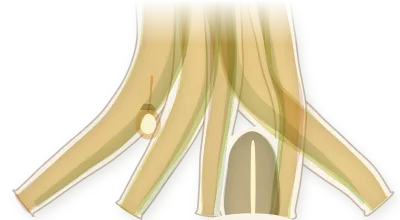
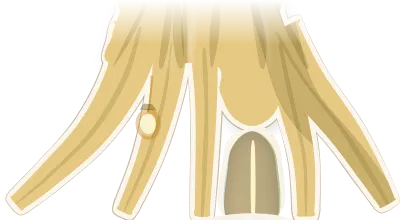
工房ホームページ：開く前の読み込みを軽く・世界樹の幹を1本に・妖精の光に姿と光の粉・遊び場は「ミニゲーム」
- 予算は「開く前に読む量」で守る：図書館の2枚と表紙だけを先に読み（185KB）、森・飛び出す紙・住人・木の部品は最初の絵が出てから読む。遅い4Gの最初の絵 1.52→1.36 秒
- 世界樹の幹：細い帯の束をやめ、1本の太い幹がすそで根へ広がり、上で枝と芯に分かれる（ねじれは樹皮の溝で）。根の絵の上の端を幹の続きにして、継ぎ目の切れをなくした
- 妖精の光：光の中に小さな体と、はばたく2枚の羽。飛びながら金の粉が舞い落ちる
- エルフを8割に（世界樹より目立たせない）
- 遊び場の札を「港町の部屋」から「ミニゲーム」へ（港町に限らない）

diff --git a/app.js b/app.js
@@ -1,7 +1,7 @@
 (() => {
   'use strict';
   // 台帳（works.json）は、組み立ての時にここへ流しこむ（ページの外から文字は入らない）
-  const DATA = {"places":[{"id":"roots","name":"根元の工房","sub":"地図と道具","line":"会社の道具を、AIとつくる作業場。連載の中身を、触れる地図と道具にしました。"},{"id":"branch","name":"枝","sub":"カードの花","line":"節目に咲く、仕掛けつきのカード。LINE で送れます。"},{"id":"play","name":"遊び場","sub":"港町の部屋","line":"おかしな港町の部屋で、触って遊べます。ここから、部屋へ直に入れます。"},{"id":"spring","name":"泉","sub":"音楽","line":"AI音楽工房の MV。工房が企画し、BGM&V Studio が制作しています。"},{"id":"cave","name":"洞窟","sub":"連載と動画","line":"経営者のための連載「AI内製化の羅針盤」と、記事の動画。"},{"id":"cloud","name":"雲の上","sub":"旅","line":"本物の旅のしおりと、想像の世界旅行。"}],"notice":["当工房では職人が気ままに作っているため、突然変更が入ったり、途中でとまっているコンテンツがあったりします。","これは作成途中をリアルタイムにお見せする趣旨のものですので、作りかけの雰囲気も含めて楽しんでもらい、成長を見守っていただけたら幸いです。"],"voices":{"調整中":["ちょっと調整中。見てもいいけど変なところがあっても気にしないでね。","いま、ねじを締め直しているところ。動くけど、ときどきガタッとするかも。","仕上げの真っ最中！ 気づいたことがあったら、そっと教えてね。","ただいま磨き中。ピカピカになるまで、もう少し。"],"作りかけ":["ただいま作りかけ。リアルタイム進行中。","まだ骨組みだけど、のぞいていってね。","作っている途中をそのまま見せちゃうよ。明日には変わってるかも！","工房の机の上で、いま組み立て中。"],"準備中":["今作成中だよ！もうすぐ公開するね！","まだ種の中。芽が出たら、ここでお知らせするね。","いま、絵の具を溶いているところ。もう少しだけ待っててね。","職人がこっそり仕込み中。お楽しみに！"]},"works":[{"place":"roots","group":"3Dの地図","kind":"触れる","name":"4つの島の航海図（利益マップ）","note":"「何から入れると儲かる？」を、3Dの海図に。","url":"https://tatatasan323-cell.github.io/note-app/"},{"place":"roots","group":"3Dの地図","kind":"触れる","name":"天空の城への道（内製化ロードマップ）","note":"6つの関門を越えて、天空の城へ。","url":"https://tatatasan323-cell.github.io/note-app/road.html"},{"place":"roots","group":"3Dの地図","kind":"触れる","name":"AIの全体地図（6層＋4横断面）","note":"会社のAIの仕組みを、6つの層で見る。","url":"https://tatatasan323-cell.github.io/note-app/arch.html"},{"place":"roots","group":"3Dの地図","kind":"触れる","name":"そもそもAIって？ 5部作の地図","note":"「そもそもAIって？」5本の地図。","url":"https://tatatasan323-cell.github.io/note-app/aimap/"},{"place":"roots","group":"道具","kind":"触れる","name":"城 ─ 経営ステータス","note":"社長の一枚画面。架空の会社で動くデモ。","url":"https://tatatasan323-cell.github.io/castle/"},{"place":"roots","group":"道具","kind":"触れる","name":"転記ゼロ（tenki-zero 体験版）","note":"転記の手作業をなくす仕組みを、ブラウザで試す。","url":"https://tatatasan323-cell.github.io/tenki-zero/"},{"place":"roots","group":"手引き","kind":"読む","name":"AIエージェント利用ガイド","note":"部下としてハーネスする。社内で配れる手引き。","url":"https://tatatasan323-cell.github.io/note-app/ai-agent-guide.html"},{"place":"roots","group":"手引き","kind":"読む","name":"乗っ取り対策の手引き","note":"パスキーでも守れない、2つの穴。","url":"https://tatatasan323-cell.github.io/note-app/security-guide.html"},{"place":"roots","group":"手引き","kind":"読む","name":"会社のセキュリティ段階表","note":"自社の段階を確かめる表。","url":"https://tatatasan323-cell.github.io/note-app/security-levels.html"},{"place":"roots","group":"時報","kind":"読む","name":"ＡＩ内製化時報 第001号","note":"システムプロンプト、八割削除。","url":"https://tatatasan323-cell.github.io/note-app/jihou-001.html"},{"place":"roots","group":"時報","kind":"読む","name":"ＡＩ内製化時報 第002号","note":"穴を空けたのはAI、突いたのもAI。","url":"https://tatatasan323-cell.github.io/note-app/jihou-002.html"},{"place":"roots","group":"工房のこれから","kind":"歩く","status":"準備中","name":"世界樹の村（3Dで歩ける町）","note":"この地図の本から入って、村を歩けるようにします。","url":""},{"place":"branch","group":"カード","kind":"触れる","name":"ハロウィン招待状 ─ おばけの庭へようこそ","note":"おばけに触れると、音と豆知識。","url":"https://tatatasan323-cell.github.io/gimmick-cards/halloween/"},{"place":"branch","group":"カード","kind":"触れる","name":"とろけて聖夜 ─ おかしな港町","note":"宝石をはじき、ステンドグラスを割り、氷を削る冬の港町（動く3D）。","url":"https://tatatasan323-cell.github.io/gimmick-cards/christmas-town/"},{"place":"branch","group":"カード","kind":"触れる","name":"とろけて聖夜 ─ X'mas グリーティングカード","note":"港町とつながるカード。","url":"https://tatatasan323-cell.github.io/gimmick-cards/christmas-town/card.html"},{"place":"branch","group":"カード","kind":"触れる","status":"調整中","name":"正月のカード ─ 作品の一覧","note":"正月のカード 76 作。絵を押すと、さわって動く本物が開きます。","url":"https://ai-naiseika.github.io/cards/shogatsu/"},{"place":"branch","group":"カード","kind":"触れる","status":"作りかけ","name":"送る予定 ─ 節目のカード","note":"カードを、あとで送るための予定。時間になったら、スマホのカレンダーが知らせます。","url":"https://ai-naiseika.github.io/cards/yotei/"},{"place":"play","group":"おかしな港町の部屋","kind":"触れる","name":"ステンドグラスの礼拝堂","note":"窓をタップすると、かけらが落ちて砕け、光の粒になって元の窓へ。","date":"2026-10-16","url":"https://tatatasan323-cell.github.io/gimmick-cards/christmas-town/glass.html?from=kobo"},{"place":"play","group":"おかしな港町の部屋","kind":"触れる","name":"宝石の美術館","note":"一人称で歩く大ホール。宝石はそっと触ると歌い、強くたたくと…？","date":"2026-10-16","url":"https://tatatasan323-cell.github.io/gimmick-cards/christmas-town/museum.html?from=kobo"},{"place":"play","group":"おかしな港町の部屋","kind":"触れる","name":"氷の彫像の広場","note":"ノミでコンコン、機械でガリガリ。削って宝石を取り出す。","date":"2026-10-16","url":"https://tatatasan323-cell.github.io/gimmick-cards/christmas-town/ice.html?from=kobo"},{"place":"play","group":"おかしな港町の部屋","kind":"触れる","name":"ぷるぷる水そう","note":"水の中を泳ぎながら、グミたちをつまんで伸ばす。","date":"2026-10-16","url":"https://tatatasan323-cell.github.io/gimmick-cards/christmas-town/swim.html?from=kobo"},{"place":"play","group":"おかしな港町の部屋","kind":"触れる","name":"グミのつみき","note":"空に浮かぶテーブルで、グミの積み木。はじいて、持って、高く積む。","date":"2026-10-16","url":"https://tatatasan323-cell.github.io/gimmick-cards/christmas-town/blocks.html?from=kobo"},{"place":"spring","group":"MV","kind":"見る","name":"雨上がりの小径 ― 水たまりを、跳んでいたころ","note":"最初の MV。","date":"2026-10-06","url":"https://youtu.be/yi53ACtNxp8"},{"place":"spring","group":"MV","kind":"見る","name":"パンプキン・ポン！ ― ハロウィンの夜のドキドキ","note":"切り絵の魔女とモンスターの踊り。","date":"2026-10-14","url":"https://youtu.be/uFx4Vcr8o8A"},{"place":"spring","group":"MV","kind":"見る","name":"Friends Around the Table ─ テーブルに集まれ！","note":"クリスマス3部作の1本目。","date":"2026-10-19","url":"https://youtu.be/pEvqS5da3-s"},{"place":"spring","group":"MV","kind":"見る","name":"Christmas Feels Like Being ─ きみといる、それがクリスマス","note":"クリスマス3部作の2本目。","date":"2026-10-20","url":"https://youtu.be/Z6vJkx9_u-s"},{"place":"spring","group":"MV","kind":"見る","name":"Singing Glory ─ グローリー・グローリー！","note":"クリスマス3部作の3本目。","date":"2026-10-23","url":"https://youtu.be/oR3KyE3Zmxo"},{"place":"cave","group":"記事の動画","kind":"見る","name":"AI導入、なぜ罠にはまる？ ─ 天空の城へ続く「6つの関門」","note":"","date":"2026-10-13","url":"https://youtu.be/-Dja11xVGzQ"},{"place":"cave","group":"記事の動画","kind":"見る","name":"AI導入、まず何から？ ─ 儲けにつながる「4つの島」の航海図","note":"","date":"2026-10-10","url":"https://youtu.be/xKATNxc-q50"},{"place":"cave","group":"記事の動画","kind":"見る","name":"動画生成AIなしで描いた26の画風 ── コードで描くアニメーション見本帳","note":"","date":"2026-10-07","url":"https://youtu.be/dQ2MLnKi8rE"},{"place":"cave","group":"記事の動画","kind":"見る","name":"DeepSeekなど中国AIは業務に使っていい？ ー 決め手は性能でも価格でもなく「調達」","note":"","date":"2026-10-06","url":"https://youtu.be/P4EKVp7NFms"},{"place":"cave","group":"記事の動画","kind":"見る","name":"「AIで、仕事は消えるのか」──ある会社の \"未来の一日\"【朗読ストーリー】","note":"","date":"2026-08-15","url":"https://youtu.be/s-KqdbO6xWk"},{"place":"cave","group":"記事の動画","kind":"見る","name":"【HTMLとは？ Pythonとは？】 AI内製化の全体像が4分で分かる見取り図","note":"","date":"2026-07-27","url":"https://youtu.be/c1A3KVXweG0"},{"place":"cave","group":"記事の動画","kind":"見る","name":"【スクール不要】月3,000円で始めるAI内製化／総集編・全8話","note":"","date":"2026-07-03","url":"https://youtu.be/3dDNd_MuB0Y"},{"place":"cave","group":"物語","kind":"読む","name":"未来の一日 ─ どこにでもある会社の朝","note":"朗読ストーリーの本。","url":"https://tatatasan323-cell.github.io/note-app/mirai/"},{"place":"cave","group":"連載","kind":"読む","date":"2026-10-19","name":"AI利用、どこから始めるか。答えは「1人」と「1つの痛み」","url":"https://note.com/ai_naiseika/n/n27912da5b3da"},{"place":"cave","group":"連載","kind":"読む","date":"2026-10-13","name":"「スクールもコンサルも要らない」の、本当の意味","url":"https://note.com/ai_naiseika/n/n51217db465e9"},{"place":"cave","group":"連載","kind":"読む","date":"2026-10-12","name":"前橋の観光案内を、AIと2日で作る ー 「確かめた度合い」を隠さない作り方","url":"https://note.com/ai_naiseika/n/n5c6551d1beac"},{"place":"cave","group":"連載","kind":"読む","date":"2026-10-12","name":"工房からの警告 再び ー AIに任せていい所、いけない所","url":"https://note.com/ai_naiseika/n/neb45bbba31cf"},{"place":"cave","group":"連載","kind":"読む","date":"2026-10-10","name":"AIエージェントがあるのに、仕組みを作る理由 ー 内製化すべき2つの場所","url":"https://note.com/ai_naiseika/n/n667d22b71479"},{"place":"cave","group":"連載","kind":"読む","date":"2026-10-07","name":"会話だけで動画を作る ー【脱・動画生成】AIアニメーションの可能性","url":"https://note.com/ai_naiseika/n/na5e82389ac72"},{"place":"cave","group":"連載","kind":"読む","date":"2026-10-06","name":"工房からの警告 ー 「AIが勝手に動き回る？」報道の真偽と、守るべき場所","url":"https://note.com/ai_naiseika/n/n4c308409efd9"},{"place":"cave","group":"連載","kind":"読む","date":"2026-10-03","name":"ある日突然の「アカバン」 ー 生成AIサブスクの落とし穴","url":"https://note.com/ai_naiseika/n/n8923fd964394"},{"place":"cave","group":"連載","kind":"読む","date":"2026-09-29","name":"AI巨額投資の行く末 ー いつか来る「ババ抜き」ゲームの終わり","url":"https://note.com/ai_naiseika/n/nc9e8207bcf78"},{"place":"cave","group":"連載","kind":"読む","date":"2026-09-28","name":"パスキーも乗っ取られる時代に。必ずすべきセキュリティ対策とは。","url":"https://note.com/ai_naiseika/n/n5b747190fa6e"},{"place":"cave","group":"連載","kind":"読む","date":"2026-09-27","name":"AI暴走論と終末論のさなかで ー あなたがすべき一手とは","url":"https://note.com/ai_naiseika/n/nf04f65023439"},{"place":"cave","group":"連載","kind":"読む","date":"2026-09-21","name":"奇跡の37手から10年。中国AIの実力と、日本企業が引くべき一線。","url":"https://note.com/ai_naiseika/n/n31214e08120e"},{"place":"cave","group":"連載","kind":"読む","date":"2026-09-20","name":"AI依存症に陥らないためのガイド ー 「AIに聞く/指示する」2つの違い","url":"https://note.com/ai_naiseika/n/n4193a3063552"},{"place":"cave","group":"連載","kind":"読む","date":"2026-09-14","name":"あなたのAI、期待通り動きますか？ ー AIの力を引き出すための思考法","url":"https://note.com/ai_naiseika/n/n7e4462f1908f"},{"place":"cave","group":"連載","kind":"読む","date":"2026-09-08","name":"バックオフィスが消える日。社内ステータスがリアルに見える未来への羅針盤。","url":"https://note.com/ai_naiseika/n/n07f8688e64df"},{"place":"cave","group":"連載","kind":"読む","date":"2026-08-31","name":"AIが空けた穴を、別のAIが5日で見つけて突く ── 8月までのAI事故と、私の工房の点検結果","url":"https://note.com/ai_naiseika/n/ned77cf0c294e"},{"place":"cave","group":"連載","kind":"読む","date":"2026-08-26","name":"AIのこれから ─ 「情報の土台」を持つことの意味","url":"https://note.com/ai_naiseika/n/n54fd60e90f04"},{"place":"cave","group":"連載","kind":"読む","date":"2026-08-24","name":"AI最前線 ─ 代表5社の現在地と、内製化に使うべき道具","url":"https://note.com/ai_naiseika/n/n06bea781e796"},{"place":"cave","group":"連載","kind":"読む","date":"2026-08-17","name":"OpenAIという物語 ─ 「人類のためのAI」は、どこへ向かっているのか","url":"https://note.com/ai_naiseika/n/n12816bc47432"},{"place":"cave","group":"連載","kind":"読む","date":"2026-08-11","name":"70年というAIの歩み ─ その挑戦と、“ 奇跡の一手 ” と、一本の論文","url":"https://note.com/ai_naiseika/n/n3471aeed4c26"},{"place":"cave","group":"連載","kind":"読む","date":"2026-08-01","name":"AIとは本当は何なのか　優秀な相棒？　頼れる相談役？　得体のしれない何か？","url":"https://note.com/ai_naiseika/n/n33eadda7b1b0"},{"place":"cave","group":"連載","kind":"読む","date":"2026-07-31","name":"経営者が知るべき、最後まで残る仕事 ─ AIが連れて行く “異世界” の話","url":"https://note.com/ai_naiseika/n/ne340418a0949"},{"place":"cave","group":"連載","kind":"読む","date":"2026-07-28","name":"Anthropicが、自社のAI開発ツールの内部指示を8割以上削除。その真意は？","url":"https://note.com/ai_naiseika/n/nec9184d934b1"},{"place":"cave","group":"連載","kind":"読む","date":"2026-07-27","name":"HTMLとは？ Pythonとは？ ─ 目指す内製化を一目で理解する見取り図","url":"https://note.com/ai_naiseika/n/ne47dde16170f"},{"place":"cave","group":"連載","kind":"読む","date":"2026-07-23","name":"AIは本当に安全なのか？ 世間で騒がれているプロンプトインジェクションを回避する唯一の方法とは？","url":"https://note.com/ai_naiseika/n/nd3d82deb2f4f"},{"place":"cave","group":"連載","kind":"読む","date":"2026-07-20","name":"その事務仕事いつまでやるのですか？【２】　例えば転記作業が無くなる日","url":"https://note.com/ai_naiseika/n/n5f46bef5c41b"},{"place":"cave","group":"連載","kind":"読む","date":"2026-07-12","name":"その事務仕事いつまでやるのですか？【１】　例えば明細を放り込むだけのツール","url":"https://note.com/ai_naiseika/n/n56e563d80e2a"},{"place":"cave","group":"連載","kind":"読む","date":"2026-07-06","name":"AI導入、知らないと失敗する ─ 成功に近づくための「内製化ロードマップ」","url":"https://note.com/ai_naiseika/n/nbf98e9add127"},{"place":"cave","group":"連載","kind":"読む","date":"2026-07-04","name":"ぶっちゃけ、AIは何から入れると儲かる？ ─ 経営者のための “利益” の地図","url":"https://note.com/ai_naiseika/n/nb7e3a2ca7fca"},{"place":"cave","group":"連載","kind":"読む","date":"2026-06-29","name":"繰り返し定型作業をAIで ─ 一度の “仕組み” が大切","url":"https://note.com/ai_naiseika/n/n9462746fd8ba"},{"place":"cave","group":"連載","kind":"読む","date":"2026-06-22","name":"メールは良いのに、AIはダメ？ ─ 会社の情報を “どこまで外に出すか”","url":"https://note.com/ai_naiseika/n/n295bc71d253d"},{"place":"cave","group":"連載","kind":"読む","date":"2026-06-15","name":"プロトタイプは早い、本番はその先 ─ 内製化を「育てる」ということ","url":"https://note.com/ai_naiseika/n/n4f8ea3f4696d"},{"place":"cave","group":"連載","kind":"読む","date":"2026-06-12","name":"バイブコーディングが通用しなくなる日 ─ AIに渡す『要件定義』の話","url":"https://note.com/ai_naiseika/n/n5f043fb74a72"},{"place":"cave","group":"連載","kind":"読む","date":"2026-06-09","name":"AIは嘘をつかない。けれど、あなたに「忖度」する","url":"https://note.com/ai_naiseika/n/n34c94b0c2a20"},{"place":"cave","group":"連載","kind":"読む","date":"2026-06-04","name":"AIと迷走しないために、最初にやるべきこと","url":"https://note.com/ai_naiseika/n/nb72e3552d43d"},{"place":"cave","group":"連載","kind":"読む","date":"2026-05-31","name":"AIエージェントを、今日入れる ─ 使い方も、AIに聞けばいい","url":"https://note.com/ai_naiseika/n/n808d67e92440"},{"place":"cave","group":"連載","kind":"読む","date":"2026-05-26","name":"「こうしたい」と伝えるだけで、何かが作れる時代","url":"https://note.com/ai_naiseika/n/n912fbc83f1c6"},{"place":"cave","group":"連載","kind":"読む","date":"2026-05-25","name":"料理人だった私が、AI内製化でシステムを作れる理由","url":"https://note.com/ai_naiseika/n/nd6a51b98694c"},{"place":"cave","group":"連載","kind":"読む","date":"2026-05-18","name":"AIを学ぶのに「スクール」「コンサル」が要らない新時代","url":"https://note.com/ai_naiseika/n/ndfc95eb3f0fa"},{"place":"cloud","group":"旅のしおり","kind":"使う","name":"前橋まちあるき（12/20 まで）","note":"芸術祭と「詩のまち」を歩く案内。確かめた度合いを印で示す。","url":"https://tatatasan323-cell.github.io/note-app/tabi/maebashi/"},{"place":"cloud","group":"旅のしおり","kind":"使う","name":"松本まちあるき","note":"松本駅から美ヶ原温泉まで、ゆるく歩く参考メモ（11/7〜8 の例）。","url":"https://tatatasan323-cell.github.io/note-app/tabi/matsumoto-burari/"},{"place":"cloud","group":"世界旅行","kind":"見る","name":"想像の世界旅行","note":"雲に乗って、想像だけで世界を旅する部屋を作っています。","status":"準備中","url":""}],"links":[{"name":"note「AI内製化の羅針盤」","url":"https://note.com/ai_naiseika"},{"name":"YouTube「AI内製化工房 MITA」","url":"https://www.youtube.com/@ai_naiseika_mita"},{"name":"X @ai_naiseika","url":"https://x.com/ai_naiseika"},{"name":"音楽 BGM&V Studio（AI音楽工房の制作）","url":"https://www.youtube.com/@BackgroundMusicVideoStudio"}],"trees":{"sizes":[[1405,473],[1455,1113]],"cells":[[-172,254,378,259,641,362,21,494,0,1],[-24,267,339,249,284,629,145,497,0,1],[90,275,312,239,895,629,246,498,0,1],[187,287,314,226,0,887,354,494,0,1],[344,351,221,167,969,0,462,499,0,0],[449,358,206,157,0,316,549,497,0,0],[811,346,211,161,1192,0,910,491,0,0],[875,338,281,178,686,0,1017,494,0,0],[984,300,294,212,316,887,1130,496,0,1],[1084,253,324,262,315,362,1237,493,0,1],[1179,248,313,265,0,362,1333,495,0,1],[1292,258,298,259,1021,362,1438,503,0,1],[-169,274,398,360,0,0,30,620,1,1],[-11,352,322,288,1131,0,150,630,1,1],[136,380,268,244,625,629,270,610,1,1],[283,436,217,198,840,887,392,620,1,1],[344,326,351,314,0,0,520,630,1,0],[752,324,331,300,353,0,918,610,1,0],[933,428,226,206,612,887,1046,620,1,1],[1027,378,282,256,0,629,1168,620,1,1],[1121,338,338,302,791,0,1290,630,1,1],[1215,272,389,352,400,0,1410,610,1,1]]},"music":{"settings":{"volume":0.7,"overlap":4,"fade_in":4},"rules":[{"place":"roots","song":"03"},{"months":[12,1,2],"hours":[16,5],"song":"06"},{"hours":[5,11],"song":"01"},{"hours":[11,16],"songs":["04","05"]},{"hours":[16,5],"song":"02"}],"songs":[{"no":"01","title":"朝つゆの森","note":"朝の光が、葉の先の露をひとつずつ照らしていく森。チェレスタとオルゴールがきらきらと目をさまし、ハープとグロッケン、カリンバが続きます。フルートは、遠くで鳴く小鳥のように。","trivia":["チェレスタは、パリの楽器製作者オーギュスト・ミュステルが1886年に特許をとった楽器。","チャイコフスキーの『くるみ割り人形』の「金平糖の踊り」は、チェレスタを使った曲として有名。"],"file":"bgm/01.m4a","bpm":68.0,"ready":true},{"no":"02","title":"ほたるの灯る夜","note":"日が落ちて、森にほたるの小さな灯りがともる夜。チェレスタとオルゴール、ハープが静かに瞬き、言葉のないコーラスと鈴の音が、闇をやさしく包みます。","trivia":["オルゴールの歴史は1796年、ジュネーブの時計職人アントワーヌ・ファーブルの発明から始まったとされる。"],"file":"bgm/02.m4a","bpm":58.75,"ready":true},{"no":"03","title":"世界樹への祈り","note":"工房の根元で、世界樹に手を当てて祈るひととき。ケルトのハープが静かに語り、ティンホイッスルが風のように、チェロが大地のように深く響きます。","trivia":["アイルランドの国章はハープ。大統領や大臣の印章にも、アイルランドのユーロ硬貨にも描かれている。","国章のハープのお手本は、ダブリンのトリニティ・カレッジの博物館に残る14世紀のハープ。"],"file":"bgm/03.m4a","bpm":89.1,"ready":true},{"no":"04","title":"妖精たちのワルツ","note":"昼下がりの木もれ日の中、妖精たちが輪になって踊る3拍子。オルゴールとチェレスタがくるくる回り、ピチカートの弦が足どりを刻み、フルートが軽やかに舞います。","trivia":["ワルツは4分の3拍子の踊りの曲。1814〜15年のウィーン会議をきっかけに、ヨーロッパ中へ広まった。","『美しく青きドナウ』は「ワルツ王」ヨハン・シュトラウス2世の曲。1867年にウィーンで初演された。"],"file":"bgm/04.m4a","bpm":95.7,"ready":true},{"no":"05","title":"雨上がりのしずく","note":"雨がやんで、葉から落ちるしずくが光る森。ピアノとチェレスタが雫のように、カリンバがぽつぽつと、ウィンドチャイムが風にゆれて鳴ります。","trivia":["カリンバはアフリカの「親指ピアノ」の仲間。金属の鍵の親指ピアノは、約1300年前にザンベジ川のほとりで生まれたという。","ピアノの黒鍵だけを弾くと、五つの音でできた音階「ペンタトニック（五音音階）」になる。"],"file":"bgm/05.m4a","bpm":64.6,"ready":true},{"no":"06","title":"雪ふる森の冬ごもり","note":"雪が音を吸いこんで、しんと静かな冬の夜の森。チェレスタとオルゴール、ハープがやわらかく降り、グラスハーモニカの澄んだ響きが、雪明かりのように広がります。","trivia":["グラスハーモニカは、フランクリンが1761年に完成させた楽器。回るガラスの器のふちに、ぬれた指で触れて鳴らす。","モーツァルトも1791年、グラスハーモニカの入った「アダージョとロンド」（K.617）を書いた。"],"file":"bgm/06.m4a","bpm":68.0,"ready":true}]}};
+  const DATA = {"places":[{"id":"roots","name":"根元の工房","sub":"地図と道具","line":"会社の道具を、AIとつくる作業場。連載の中身を、触れる地図と道具にしました。"},{"id":"branch","name":"枝","sub":"カードの花","line":"節目に咲く、仕掛けつきのカード。LINE で送れます。"},{"id":"play","name":"遊び場","sub":"ミニゲーム","line":"触って遊べるミニゲームの部屋。ここから直に入れます。"},{"id":"spring","name":"泉","sub":"音楽","line":"AI音楽工房の MV。工房が企画し、BGM&V Studio が制作しています。"},{"id":"cave","name":"洞窟","sub":"連載と動画","line":"経営者のための連載「AI内製化の羅針盤」と、記事の動画。"},{"id":"cloud","name":"雲の上","sub":"旅","line":"本物の旅のしおりと、想像の世界旅行。"}],"notice":["当工房では職人が気ままに作っているため、突然変更が入ったり、途中でとまっているコンテンツがあったりします。","これは作成途中をリアルタイムにお見せする趣旨のものですので、作りかけの雰囲気も含めて楽しんでもらい、成長を見守っていただけたら幸いです。"],"voices":{"調整中":["ちょっと調整中。見てもいいけど変なところがあっても気にしないでね。","いま、ねじを締め直しているところ。動くけど、ときどきガタッとするかも。","仕上げの真っ最中！ 気づいたことがあったら、そっと教えてね。","ただいま磨き中。ピカピカになるまで、もう少し。"],"作りかけ":["ただいま作りかけ。リアルタイム進行中。","まだ骨組みだけど、のぞいていってね。","作っている途中をそのまま見せちゃうよ。明日には変わってるかも！","工房の机の上で、いま組み立て中。"],"準備中":["今作成中だよ！もうすぐ公開するね！","まだ種の中。芽が出たら、ここでお知らせするね。","いま、絵の具を溶いているところ。もう少しだけ待っててね。","職人がこっそり仕込み中。お楽しみに！"]},"works":[{"place":"roots","group":"3Dの地図","kind":"触れる","name":"4つの島の航海図（利益マップ）","note":"「何から入れると儲かる？」を、3Dの海図に。","url":"https://tatatasan323-cell.github.io/note-app/"},{"place":"roots","group":"3Dの地図","kind":"触れる","name":"天空の城への道（内製化ロードマップ）","note":"6つの関門を越えて、天空の城へ。","url":"https://tatatasan323-cell.github.io/note-app/road.html"},{"place":"roots","group":"3Dの地図","kind":"触れる","name":"AIの全体地図（6層＋4横断面）","note":"会社のAIの仕組みを、6つの層で見る。","url":"https://tatatasan323-cell.github.io/note-app/arch.html"},{"place":"roots","group":"3Dの地図","kind":"触れる","name":"そもそもAIって？ 5部作の地図","note":"「そもそもAIって？」5本の地図。","url":"https://tatatasan323-cell.github.io/note-app/aimap/"},{"place":"roots","group":"道具","kind":"触れる","name":"城 ─ 経営ステータス","note":"社長の一枚画面。架空の会社で動くデモ。","url":"https://tatatasan323-cell.github.io/castle/"},{"place":"roots","group":"道具","kind":"触れる","name":"転記ゼロ（tenki-zero 体験版）","note":"転記の手作業をなくす仕組みを、ブラウザで試す。","url":"https://tatatasan323-cell.github.io/tenki-zero/"},{"place":"roots","group":"手引き","kind":"読む","name":"AIエージェント利用ガイド","note":"部下としてハーネスする。社内で配れる手引き。","url":"https://tatatasan323-cell.github.io/note-app/ai-agent-guide.html"},{"place":"roots","group":"手引き","kind":"読む","name":"乗っ取り対策の手引き","note":"パスキーでも守れない、2つの穴。","url":"https://tatatasan323-cell.github.io/note-app/security-guide.html"},{"place":"roots","group":"手引き","kind":"読む","name":"会社のセキュリティ段階表","note":"自社の段階を確かめる表。","url":"https://tatatasan323-cell.github.io/note-app/security-levels.html"},{"place":"roots","group":"時報","kind":"読む","name":"ＡＩ内製化時報 第001号","note":"システムプロンプト、八割削除。","url":"https://tatatasan323-cell.github.io/note-app/jihou-001.html"},{"place":"roots","group":"時報","kind":"読む","name":"ＡＩ内製化時報 第002号","note":"穴を空けたのはAI、突いたのもAI。","url":"https://tatatasan323-cell.github.io/note-app/jihou-002.html"},{"place":"roots","group":"工房のこれから","kind":"歩く","status":"準備中","name":"世界樹の村（3Dで歩ける町）","note":"この地図の本から入って、村を歩けるようにします。","url":""},{"place":"branch","group":"カード","kind":"触れる","name":"ハロウィン招待状 ─ おばけの庭へようこそ","note":"おばけに触れると、音と豆知識。","url":"https://tatatasan323-cell.github.io/gimmick-cards/halloween/"},{"place":"branch","group":"カード","kind":"触れる","name":"とろけて聖夜 ─ おかしな港町","note":"宝石をはじき、ステンドグラスを割り、氷を削る冬の港町（動く3D）。","url":"https://tatatasan323-cell.github.io/gimmick-cards/christmas-town/"},{"place":"branch","group":"カード","kind":"触れる","name":"とろけて聖夜 ─ X'mas グリーティングカード","note":"港町とつながるカード。","url":"https://tatatasan323-cell.github.io/gimmick-cards/christmas-town/card.html"},{"place":"branch","group":"カード","kind":"触れる","status":"調整中","name":"正月のカード ─ 作品の一覧","note":"正月のカード 76 作。絵を押すと、さわって動く本物が開きます。","url":"https://ai-naiseika.github.io/cards/shogatsu/"},{"place":"branch","group":"カード","kind":"触れる","status":"作りかけ","name":"送る予定 ─ 節目のカード","note":"カードを、あとで送るための予定。時間になったら、スマホのカレンダーが知らせます。","url":"https://ai-naiseika.github.io/cards/yotei/"},{"place":"play","group":"おかしな港町の部屋","kind":"触れる","name":"ステンドグラスの礼拝堂","note":"窓をタップすると、かけらが落ちて砕け、光の粒になって元の窓へ。","date":"2026-10-16","url":"https://tatatasan323-cell.github.io/gimmick-cards/christmas-town/glass.html?from=kobo"},{"place":"play","group":"おかしな港町の部屋","kind":"触れる","name":"宝石の美術館","note":"一人称で歩く大ホール。宝石はそっと触ると歌い、強くたたくと…？","date":"2026-10-16","url":"https://tatatasan323-cell.github.io/gimmick-cards/christmas-town/museum.html?from=kobo"},{"place":"play","group":"おかしな港町の部屋","kind":"触れる","name":"氷の彫像の広場","note":"ノミでコンコン、機械でガリガリ。削って宝石を取り出す。","date":"2026-10-16","url":"https://tatatasan323-cell.github.io/gimmick-cards/christmas-town/ice.html?from=kobo"},{"place":"play","group":"おかしな港町の部屋","kind":"触れる","name":"ぷるぷる水そう","note":"水の中を泳ぎながら、グミたちをつまんで伸ばす。","date":"2026-10-16","url":"https://tatatasan323-cell.github.io/gimmick-cards/christmas-town/swim.html?from=kobo"},{"place":"play","group":"おかしな港町の部屋","kind":"触れる","name":"グミのつみき","note":"空に浮かぶテーブルで、グミの積み木。はじいて、持って、高く積む。","date":"2026-10-16","url":"https://tatatasan323-cell.github.io/gimmick-cards/christmas-town/blocks.html?from=kobo"},{"place":"spring","group":"MV","kind":"見る","name":"雨上がりの小径 ― 水たまりを、跳んでいたころ","note":"最初の MV。","date":"2026-10-06","url":"https://youtu.be/yi53ACtNxp8"},{"place":"spring","group":"MV","kind":"見る","name":"パンプキン・ポン！ ― ハロウィンの夜のドキドキ","note":"切り絵の魔女とモンスターの踊り。","date":"2026-10-14","url":"https://youtu.be/uFx4Vcr8o8A"},{"place":"spring","group":"MV","kind":"見る","name":"Friends Around the Table ─ テーブルに集まれ！","note":"クリスマス3部作の1本目。","date":"2026-10-19","url":"https://youtu.be/pEvqS5da3-s"},{"place":"spring","group":"MV","kind":"見る","name":"Christmas Feels Like Being ─ きみといる、それがクリスマス","note":"クリスマス3部作の2本目。","date":"2026-10-20","url":"https://youtu.be/Z6vJkx9_u-s"},{"place":"spring","group":"MV","kind":"見る","name":"Singing Glory ─ グローリー・グローリー！","note":"クリスマス3部作の3本目。","date":"2026-10-23","url":"https://youtu.be/oR3KyE3Zmxo"},{"place":"cave","group":"記事の動画","kind":"見る","name":"AI導入、なぜ罠にはまる？ ─ 天空の城へ続く「6つの関門」","note":"","date":"2026-10-13","url":"https://youtu.be/-Dja11xVGzQ"},{"place":"cave","group":"記事の動画","kind":"見る","name":"AI導入、まず何から？ ─ 儲けにつながる「4つの島」の航海図","note":"","date":"2026-10-10","url":"https://youtu.be/xKATNxc-q50"},{"place":"cave","group":"記事の動画","kind":"見る","name":"動画生成AIなしで描いた26の画風 ── コードで描くアニメーション見本帳","note":"","date":"2026-10-07","url":"https://youtu.be/dQ2MLnKi8rE"},{"place":"cave","group":"記事の動画","kind":"見る","name":"DeepSeekなど中国AIは業務に使っていい？ ー 決め手は性能でも価格でもなく「調達」","note":"","date":"2026-10-06","url":"https://youtu.be/P4EKVp7NFms"},{"place":"cave","group":"記事の動画","kind":"見る","name":"「AIで、仕事は消えるのか」──ある会社の \"未来の一日\"【朗読ストーリー】","note":"","date":"2026-08-15","url":"https://youtu.be/s-KqdbO6xWk"},{"place":"cave","group":"記事の動画","kind":"見る","name":"【HTMLとは？ Pythonとは？】 AI内製化の全体像が4分で分かる見取り図","note":"","date":"2026-07-27","url":"https://youtu.be/c1A3KVXweG0"},{"place":"cave","group":"記事の動画","kind":"見る","name":"【スクール不要】月3,000円で始めるAI内製化／総集編・全8話","note":"","date":"2026-07-03","url":"https://youtu.be/3dDNd_MuB0Y"},{"place":"cave","group":"物語","kind":"読む","name":"未来の一日 ─ どこにでもある会社の朝","note":"朗読ストーリーの本。","url":"https://tatatasan323-cell.github.io/note-app/mirai/"},{"place":"cave","group":"連載","kind":"読む","date":"2026-10-19","name":"AI利用、どこから始めるか。答えは「1人」と「1つの痛み」","url":"https://note.com/ai_naiseika/n/n27912da5b3da"},{"place":"cave","group":"連載","kind":"読む","date":"2026-10-13","name":"「スクールもコンサルも要らない」の、本当の意味","url":"https://note.com/ai_naiseika/n/n51217db465e9"},{"place":"cave","group":"連載","kind":"読む","date":"2026-10-12","name":"前橋の観光案内を、AIと2日で作る ー 「確かめた度合い」を隠さない作り方","url":"https://note.com/ai_naiseika/n/n5c6551d1beac"},{"place":"cave","group":"連載","kind":"読む","date":"2026-10-12","name":"工房からの警告 再び ー AIに任せていい所、いけない所","url":"https://note.com/ai_naiseika/n/neb45bbba31cf"},{"place":"cave","group":"連載","kind":"読む","date":"2026-10-10","name":"AIエージェントがあるのに、仕組みを作る理由 ー 内製化すべき2つの場所","url":"https://note.com/ai_naiseika/n/n667d22b71479"},{"place":"cave","group":"連載","kind":"読む","date":"2026-10-07","name":"会話だけで動画を作る ー【脱・動画生成】AIアニメーションの可能性","url":"https://note.com/ai_naiseika/n/na5e82389ac72"},{"place":"cave","group":"連載","kind":"読む","date":"2026-10-06","name":"工房からの警告 ー 「AIが勝手に動き回る？」報道の真偽と、守るべき場所","url":"https://note.com/ai_naiseika/n/n4c308409efd9"},{"place":"cave","group":"連載","kind":"読む","date":"2026-10-03","name":"ある日突然の「アカバン」 ー 生成AIサブスクの落とし穴","url":"https://note.com/ai_naiseika/n/n8923fd964394"},{"place":"cave","group":"連載","kind":"読む","date":"2026-09-29","name":"AI巨額投資の行く末 ー いつか来る「ババ抜き」ゲームの終わり","url":"https://note.com/ai_naiseika/n/nc9e8207bcf78"},{"place":"cave","group":"連載","kind":"読む","date":"2026-09-28","name":"パスキーも乗っ取られる時代に。必ずすべきセキュリティ対策とは。","url":"https://note.com/ai_naiseika/n/n5b747190fa6e"},{"place":"cave","group":"連載","kind":"読む","date":"2026-09-27","name":"AI暴走論と終末論のさなかで ー あなたがすべき一手とは","url":"https://note.com/ai_naiseika/n/nf04f65023439"},{"place":"cave","group":"連載","kind":"読む","date":"2026-09-21","name":"奇跡の37手から10年。中国AIの実力と、日本企業が引くべき一線。","url":"https://note.com/ai_naiseika/n/n31214e08120e"},{"place":"cave","group":"連載","kind":"読む","date":"2026-09-20","name":"AI依存症に陥らないためのガイド ー 「AIに聞く/指示する」2つの違い","url":"https://note.com/ai_naiseika/n/n4193a3063552"},{"place":"cave","group":"連載","kind":"読む","date":"2026-09-14","name":"あなたのAI、期待通り動きますか？ ー AIの力を引き出すための思考法","url":"https://note.com/ai_naiseika/n/n7e4462f1908f"},{"place":"cave","group":"連載","kind":"読む","date":"2026-09-08","name":"バックオフィスが消える日。社内ステータスがリアルに見える未来への羅針盤。","url":"https://note.com/ai_naiseika/n/n07f8688e64df"},{"place":"cave","group":"連載","kind":"読む","date":"2026-08-31","name":"AIが空けた穴を、別のAIが5日で見つけて突く ── 8月までのAI事故と、私の工房の点検結果","url":"https://note.com/ai_naiseika/n/ned77cf0c294e"},{"place":"cave","group":"連載","kind":"読む","date":"2026-08-26","name":"AIのこれから ─ 「情報の土台」を持つことの意味","url":"https://note.com/ai_naiseika/n/n54fd60e90f04"},{"place":"cave","group":"連載","kind":"読む","date":"2026-08-24","name":"AI最前線 ─ 代表5社の現在地と、内製化に使うべき道具","url":"https://note.com/ai_naiseika/n/n06bea781e796"},{"place":"cave","group":"連載","kind":"読む","date":"2026-08-17","name":"OpenAIという物語 ─ 「人類のためのAI」は、どこへ向かっているのか","url":"https://note.com/ai_naiseika/n/n12816bc47432"},{"place":"cave","group":"連載","kind":"読む","date":"2026-08-11","name":"70年というAIの歩み ─ その挑戦と、“ 奇跡の一手 ” と、一本の論文","url":"https://note.com/ai_naiseika/n/n3471aeed4c26"},{"place":"cave","group":"連載","kind":"読む","date":"2026-08-01","name":"AIとは本当は何なのか　優秀な相棒？　頼れる相談役？　得体のしれない何か？","url":"https://note.com/ai_naiseika/n/n33eadda7b1b0"},{"place":"cave","group":"連載","kind":"読む","date":"2026-07-31","name":"経営者が知るべき、最後まで残る仕事 ─ AIが連れて行く “異世界” の話","url":"https://note.com/ai_naiseika/n/ne340418a0949"},{"place":"cave","group":"連載","kind":"読む","date":"2026-07-28","name":"Anthropicが、自社のAI開発ツールの内部指示を8割以上削除。その真意は？","url":"https://note.com/ai_naiseika/n/nec9184d934b1"},{"place":"cave","group":"連載","kind":"読む","date":"2026-07-27","name":"HTMLとは？ Pythonとは？ ─ 目指す内製化を一目で理解する見取り図","url":"https://note.com/ai_naiseika/n/ne47dde16170f"},{"place":"cave","group":"連載","kind":"読む","date":"2026-07-23","name":"AIは本当に安全なのか？ 世間で騒がれているプロンプトインジェクションを回避する唯一の方法とは？","url":"https://note.com/ai_naiseika/n/nd3d82deb2f4f"},{"place":"cave","group":"連載","kind":"読む","date":"2026-07-20","name":"その事務仕事いつまでやるのですか？【２】　例えば転記作業が無くなる日","url":"https://note.com/ai_naiseika/n/n5f46bef5c41b"},{"place":"cave","group":"連載","kind":"読む","date":"2026-07-12","name":"その事務仕事いつまでやるのですか？【１】　例えば明細を放り込むだけのツール","url":"https://note.com/ai_naiseika/n/n56e563d80e2a"},{"place":"cave","group":"連載","kind":"読む","date":"2026-07-06","name":"AI導入、知らないと失敗する ─ 成功に近づくための「内製化ロードマップ」","url":"https://note.com/ai_naiseika/n/nbf98e9add127"},{"place":"cave","group":"連載","kind":"読む","date":"2026-07-04","name":"ぶっちゃけ、AIは何から入れると儲かる？ ─ 経営者のための “利益” の地図","url":"https://note.com/ai_naiseika/n/nb7e3a2ca7fca"},{"place":"cave","group":"連載","kind":"読む","date":"2026-06-29","name":"繰り返し定型作業をAIで ─ 一度の “仕組み” が大切","url":"https://note.com/ai_naiseika/n/n9462746fd8ba"},{"place":"cave","group":"連載","kind":"読む","date":"2026-06-22","name":"メールは良いのに、AIはダメ？ ─ 会社の情報を “どこまで外に出すか”","url":"https://note.com/ai_naiseika/n/n295bc71d253d"},{"place":"cave","group":"連載","kind":"読む","date":"2026-06-15","name":"プロトタイプは早い、本番はその先 ─ 内製化を「育てる」ということ","url":"https://note.com/ai_naiseika/n/n4f8ea3f4696d"},{"place":"cave","group":"連載","kind":"読む","date":"2026-06-12","name":"バイブコーディングが通用しなくなる日 ─ AIに渡す『要件定義』の話","url":"https://note.com/ai_naiseika/n/n5f043fb74a72"},{"place":"cave","group":"連載","kind":"読む","date":"2026-06-09","name":"AIは嘘をつかない。けれど、あなたに「忖度」する","url":"https://note.com/ai_naiseika/n/n34c94b0c2a20"},{"place":"cave","group":"連載","kind":"読む","date":"2026-06-04","name":"AIと迷走しないために、最初にやるべきこと","url":"https://note.com/ai_naiseika/n/nb72e3552d43d"},{"place":"cave","group":"連載","kind":"読む","date":"2026-05-31","name":"AIエージェントを、今日入れる ─ 使い方も、AIに聞けばいい","url":"https://note.com/ai_naiseika/n/n808d67e92440"},{"place":"cave","group":"連載","kind":"読む","date":"2026-05-26","name":"「こうしたい」と伝えるだけで、何かが作れる時代","url":"https://note.com/ai_naiseika/n/n912fbc83f1c6"},{"place":"cave","group":"連載","kind":"読む","date":"2026-05-25","name":"料理人だった私が、AI内製化でシステムを作れる理由","url":"https://note.com/ai_naiseika/n/nd6a51b98694c"},{"place":"cave","group":"連載","kind":"読む","date":"2026-05-18","name":"AIを学ぶのに「スクール」「コンサル」が要らない新時代","url":"https://note.com/ai_naiseika/n/ndfc95eb3f0fa"},{"place":"cloud","group":"旅のしおり","kind":"使う","name":"前橋まちあるき（12/20 まで）","note":"芸術祭と「詩のまち」を歩く案内。確かめた度合いを印で示す。","url":"https://tatatasan323-cell.github.io/note-app/tabi/maebashi/"},{"place":"cloud","group":"旅のしおり","kind":"使う","name":"松本まちあるき","note":"松本駅から美ヶ原温泉まで、ゆるく歩く参考メモ（11/7〜8 の例）。","url":"https://tatatasan323-cell.github.io/note-app/tabi/matsumoto-burari/"},{"place":"cloud","group":"世界旅行","kind":"見る","name":"想像の世界旅行","note":"雲に乗って、想像だけで世界を旅する部屋を作っています。","status":"準備中","url":""}],"links":[{"name":"note「AI内製化の羅針盤」","url":"https://note.com/ai_naiseika"},{"name":"YouTube「AI内製化工房 MITA」","url":"https://www.youtube.com/@ai_naiseika_mita"},{"name":"X @ai_naiseika","url":"https://x.com/ai_naiseika"},{"name":"音楽 BGM&V Studio（AI音楽工房の制作）","url":"https://www.youtube.com/@BackgroundMusicVideoStudio"}],"trees":{"sizes":[[1405,473],[1455,1113]],"cells":[[-172,254,378,259,641,362,21,494,0,1],[-24,267,339,249,284,629,145,497,0,1],[90,275,312,239,895,629,246,498,0,1],[187,287,314,226,0,887,354,494,0,1],[344,351,221,167,969,0,462,499,0,0],[449,358,206,157,0,316,549,497,0,0],[811,346,211,161,1192,0,910,491,0,0],[875,338,281,178,686,0,1017,494,0,0],[984,300,294,212,316,887,1130,496,0,1],[1084,253,324,262,315,362,1237,493,0,1],[1179,248,313,265,0,362,1333,495,0,1],[1292,258,298,259,1021,362,1438,503,0,1],[-169,274,398,360,0,0,30,620,1,1],[-11,352,322,288,1131,0,150,630,1,1],[136,380,268,244,625,629,270,610,1,1],[283,436,217,198,840,887,392,620,1,1],[344,326,351,314,0,0,520,630,1,0],[752,324,331,300,353,0,918,610,1,0],[933,428,226,206,612,887,1046,620,1,1],[1027,378,282,256,0,629,1168,620,1,1],[1121,338,338,302,791,0,1290,630,1,1],[1215,272,389,352,400,0,1410,610,1,1]]},"music":{"settings":{"volume":0.7,"overlap":4,"fade_in":4},"rules":[{"place":"roots","song":"03"},{"months":[12,1,2],"hours":[16,5],"song":"06"},{"hours":[5,11],"song":"01"},{"hours":[11,16],"songs":["04","05"]},{"hours":[16,5],"song":"02"}],"songs":[{"no":"01","title":"朝つゆの森","note":"朝の光が、葉の先の露をひとつずつ照らしていく森。チェレスタとオルゴールがきらきらと目をさまし、ハープとグロッケン、カリンバが続きます。フルートは、遠くで鳴く小鳥のように。","trivia":["チェレスタは、パリの楽器製作者オーギュスト・ミュステルが1886年に特許をとった楽器。","チャイコフスキーの『くるみ割り人形』の「金平糖の踊り」は、チェレスタを使った曲として有名。"],"file":"bgm/01.m4a","bpm":68.0,"ready":true},{"no":"02","title":"ほたるの灯る夜","note":"日が落ちて、森にほたるの小さな灯りがともる夜。チェレスタとオルゴール、ハープが静かに瞬き、言葉のないコーラスと鈴の音が、闇をやさしく包みます。","trivia":["オルゴールの歴史は1796年、ジュネーブの時計職人アントワーヌ・ファーブルの発明から始まったとされる。"],"file":"bgm/02.m4a","bpm":58.75,"ready":true},{"no":"03","title":"世界樹への祈り","note":"工房の根元で、世界樹に手を当てて祈るひととき。ケルトのハープが静かに語り、ティンホイッスルが風のように、チェロが大地のように深く響きます。","trivia":["アイルランドの国章はハープ。大統領や大臣の印章にも、アイルランドのユーロ硬貨にも描かれている。","国章のハープのお手本は、ダブリンのトリニティ・カレッジの博物館に残る14世紀のハープ。"],"file":"bgm/03.m4a","bpm":89.1,"ready":true},{"no":"04","title":"妖精たちのワルツ","note":"昼下がりの木もれ日の中、妖精たちが輪になって踊る3拍子。オルゴールとチェレスタがくるくる回り、ピチカートの弦が足どりを刻み、フルートが軽やかに舞います。","trivia":["ワルツは4分の3拍子の踊りの曲。1814〜15年のウィーン会議をきっかけに、ヨーロッパ中へ広まった。","『美しく青きドナウ』は「ワルツ王」ヨハン・シュトラウス2世の曲。1867年にウィーンで初演された。"],"file":"bgm/04.m4a","bpm":95.7,"ready":true},{"no":"05","title":"雨上がりのしずく","note":"雨がやんで、葉から落ちるしずくが光る森。ピアノとチェレスタが雫のように、カリンバがぽつぽつと、ウィンドチャイムが風にゆれて鳴ります。","trivia":["カリンバはアフリカの「親指ピアノ」の仲間。金属の鍵の親指ピアノは、約1300年前にザンベジ川のほとりで生まれたという。","ピアノの黒鍵だけを弾くと、五つの音でできた音階「ペンタトニック（五音音階）」になる。"],"file":"bgm/05.m4a","bpm":64.6,"ready":true},{"no":"06","title":"雪ふる森の冬ごもり","note":"雪が音を吸いこんで、しんと静かな冬の夜の森。チェレスタとオルゴール、ハープがやわらかく降り、グラスハーモニカの澄んだ響きが、雪明かりのように広がります。","trivia":["グラスハーモニカは、フランクリンが1761年に完成させた楽器。回るガラスの器のふちに、ぬれた指で触れて鳴らす。","モーツァルトも1791年、グラスハーモニカの入った「アダージョとロンド」（K.617）を書いた。"],"file":"bgm/06.m4a","bpm":68.0,"ready":true}]}};
   const $ = (id) => document.getElementById(id);
   const PLACES = new Map(DATA.places.map((p) => [p.id, p]));
   const stage = $('stage'), ui = $('stageUi'), wrap = $('stageWrap'), labelsBox = $('labels'), prompt = $('prompt');
@@ -395,8 +395,17 @@
     lifeStart(); refreshBack();
   }
   function instantly(fn) { setCls('instant', true); fn(); void stage.offsetWidth; requestAnimationFrame(() => setCls('instant', false)); }
+  // 開いた後に要る絵（森・見開き・飛び出す紙・住人・木の部品）は、最初の絵（図書館）が出てから読む。先に押されたら、その時に読む
+  //   本人 2026-10-25「推奨の形で予算を見直して」：予算は「開く前に読む量」で守る（成果物の基本 1. 重さ）
+  function later() {
+    if (!wrap.classList.contains('wait')) return;
+    for (const im of document.querySelectorAll('img[data-src]')) { im.src = im.dataset.src; im.removeAttribute('data-src'); }
+    wrap.classList.remove('wait');
+  }
+  if (document.readyState === 'complete') setTimeout(later, 0); else addEventListener('load', () => setTimeout(later, 0), { once: true });
   function open(now) {
     if (state !== 'closed') return;
+    later();
     if (!now) { touch(); sound('open'); push('mura'); }   // さわってひらいた時だけ鳴る・履歴に積む
     if (now || reduce) { instantly(() => setCls('open', true)); settle(); return; }
     state = 'opening'; refreshBack();

diff --git a/style.css b/style.css
@@ -46,6 +46,7 @@ a{color:inherit}
 .tr{position:absolute;display:block;left:0;top:0;pointer-events:none;mix-blend-mode:multiply;background-repeat:no-repeat}
 .tr.s0{background-image:url(img/trees_c.webp)}
 .tr.s1{background-image:url(img/trees_w.webp)}
+.wait .tr,.wait .forest-wide{background-image:none!important}   /* 開いた後の森は、最初の絵（図書館）が出てから読む（JS が wait を外す） */
 .wide .stage>.tr,.trees-w{display:none}
 .wide .trees-w{display:block}
 .trees-w>.tr{opacity:0;transition:opacity .9s ease .1s}
@@ -254,19 +255,31 @@ a{color:inherit}
 /* 住人：ひらき終わった後の余韻の中で、ゆっくり現れる */
 .flat .resident{position:absolute;opacity:0;transition:opacity 1.4s ease 4.4s}
 .open .flat .resident{opacity:1}
-.flat .r-elf{left:86px;top:48px;width:34px;height:66px;transform-origin:50% 100%;animation:sway 9s ease-in-out infinite}   /* 足もとは前と同じ高さ（114）。杖が世界樹の幹に隠れないよう、左へ */
+.flat .r-elf{left:90px;top:61px;width:27px;height:53px;transform-origin:50% 100%;animation:sway 9s ease-in-out infinite}   /* 足もとは前と同じ高さ（114）。世界樹より目立たない大きさ（本人 2026-10-25「世界樹との大きさのバランス」→ 8割） */
 .w-tree .swing{position:absolute;left:30px;top:122px;width:26px;height:56px;transform-origin:50% 7%;animation:swing 5.2s ease-in-out infinite}   /* 遊び場のブランコ：左の枝から下がり、ゆっくり揺れる */
 @keyframes swing{0%,100%{rotate:-3.5deg}50%{rotate:3.5deg}}
 .flat .r-fairy{left:180px;top:121px;width:39px;height:36px;animation:hover 6s ease-in-out infinite}   /* 体を包む光は絵の中に描いた（にじみの影は重い） */
 @keyframes sway{0%,100%{transform:rotate(-.8deg)}50%{transform:rotate(.8deg)}}
 @keyframes hover{0%,100%{transform:translateY(0)}50%{transform:translateY(-1.5px)}}
 
-/* 妖精の光 */
+/* 妖精の光：図書館に浮かび、本がひらくと世界樹のてっぺんへ飛ぶ。光の中に小さな体と、はばたく2枚の羽が少しだけ見え、金の粉が舞い落ちる
+   （本人 2026-10-25「妖精なら姿が少しだけ見える感じがいいし、きらきらと光の粉を出しながら飛んでほしい」）。動きは scale・rotate・translate・opacity だけ */
 .fairy{position:absolute;left:128px;top:300px;width:12px;height:12px;border-radius:50%;pointer-events:none;
   background:radial-gradient(circle,#fffbe8 0 28%,rgba(255,224,150,.9) 46%,rgba(255,214,150,0) 72%);box-shadow:0 0 16px 7px rgba(255,212,140,.42);
   animation:bob 3.4s ease-in-out infinite;transition:left 1.1s ease-in-out 2.5s,top 1.1s ease-in-out 2.5s}
 .open .fairy{left:var(--fx,150px);top:var(--fy,150px)}
 @keyframes bob{0%,100%{transform:translateY(0)}50%{transform:translateY(-7px)}}
+.fairy .fw{position:absolute;top:-3px;width:11px;height:7px;border-radius:50%;background:radial-gradient(ellipse at 35% 50%,rgba(255,255,255,.8),rgba(214,236,255,.35) 60%,rgba(214,236,255,0) 76%);animation:flap .2s ease-in-out infinite alternate}
+.fairy .fw:nth-child(1){left:-8px;transform-origin:100% 70%;rotate:22deg}
+.fairy .fw:nth-child(2){right:-8px;transform-origin:0 70%;rotate:-22deg}
+@keyframes flap{from{scale:1 1}to{scale:.35 1}}
+.fairy .fb{position:absolute;left:4.6px;top:2.4px;width:2.8px;height:7px;border-radius:1.6px;background:rgba(255,232,210,.95)}   /* 光の中の小さな体 */
+.fairy .fd{position:absolute;left:5px;top:6px;width:2px;height:2px;border-radius:50%;background:#fff3c4;opacity:0;animation:dust 1.6s linear infinite}
+.fairy .fd:nth-child(4){animation-delay:-.32s;--dx:-6px}
+.fairy .fd:nth-child(5){animation-delay:-.64s;--dx:5px}
+.fairy .fd:nth-child(6){animation-delay:-.96s;--dx:-3px}
+.fairy .fd:nth-child(7){animation-delay:-1.28s;--dx:7px}
+@keyframes dust{0%{opacity:0;translate:0 0}12%{opacity:.95}100%{opacity:0;translate:var(--dx, 2px) 20px}}
 
 .open-hit{position:absolute;inset:0;width:100%;height:100%;background:none;border:0;padding:0;cursor:pointer;-webkit-tap-highlight-color:transparent}
 .open .open-hit{display:none}
@@ -378,6 +391,6 @@ main>nav,main>section.about{max-width:560px;margin:0 auto;padding:0 16px}
 }
 /* 動きを減らす設定：小さな動きは止め、時刻の光（静止画）だけ。帯は流さずに出して消す */
 @media (prefers-reduced-motion:reduce){
-  .fairy,.flat .r-elf,.flat .r-fairy,.w-tree .swing,.bubble,.bubble .who,.w-tree,.sc,.spark,.lamp,.flies span,.t-stars::before,.t-stars::after,.bow{animation:none!important}
-  .motes,.spark,.sky{display:none}
+  .fairy,.fairy .fw,.flat .r-elf,.flat .r-fairy,.w-tree .swing,.bubble,.bubble .who,.w-tree,.sc,.spark,.lamp,.flies span,.t-stars::before,.t-stars::after,.bow{animation:none!important}
+  .motes,.spark,.sky,.fairy .fd{display:none}
 }

diff --git a/index.html b/index.html
@@ -28,9 +28,9 @@
 <header class="top"><button class="back" id="backBtn" type="button" hidden>‹ もどる</button><p class="brand">AI内製化工房</p><button class="sound" id="sound" type="button">音：あり</button></header>
 <main>
   <section class="map" aria-label="工房の地図">
-   <div class="stage-wrap" id="stageWrap">
+   <div class="stage-wrap wait" id="stageWrap">
     <div class="stage" id="stage">
-      <img class="forest-c" src="img/forest_c.webp" alt="" width="390" height="640">
+      <img class="forest-c" data-src="img/forest_c.webp" alt="" width="390" height="640">
       <div class="sky-clouds" aria-hidden="true"><span class="bow"></span><span class="sc sc1"></span><span class="sc sc2"></span><span class="sc sc3"></span></div>
       <img class="arch-light" src="img/arch_light.webp" alt="" width="390" height="640" fetchpriority="high">
       <img class="arch-wall" src="img/arch_wall.webp" alt="" width="390" height="640" fetchpriority="high">
@@ -38,15 +38,15 @@
       <div class="scene" aria-hidden="true">
         <div class="book" id="book">
           <span class="thick thick-r"></span><span class="thick thick-l"></span>
-          <div class="page-r"><img src="img/spread.webp" alt="" width="320" height="200"></div>
+          <div class="page-r"><img data-src="img/spread.webp" alt="" width="320" height="200"></div>
           <span class="fs fs-world"></span><span class="fs fs-spring"></span><span class="fs fs-cave"></span>
-          <div class="flat f-cloud"><img src="img/f_cloud.webp" alt="" width="320" height="400"></div>
-          <div class="flat f-spring"><img src="img/f_spring.webp" alt="" width="150" height="150"><span class="spark k1"></span><span class="spark k2"></span><span class="spark k3"></span><img class="resident r-elf" src="img/r_elf.webp" alt="" width="34" height="66"></div>
-          <div class="flat f-cave"><img src="img/f_cave.webp" alt="" width="150" height="160"></div>
-          <div class="flat f-world"><div class="w-tree"><img src="img/f_tree.webp" alt="" width="260" height="340"><img class="swing" src="img/r_swing.webp" alt="" width="26" height="56"><img class="resident r-fairy" src="img/r_fairy.webp" alt="" width="39" height="36"></div><div class="w-roots"><img src="img/f_roots.webp" alt="" width="200" height="110"></div></div>
+          <div class="flat f-cloud"><img data-src="img/f_cloud.webp" alt="" width="320" height="400"></div>
+          <div class="flat f-spring"><img data-src="img/f_spring.webp" alt="" width="150" height="150"><span class="spark k1"></span><span class="spark k2"></span><span class="spark k3"></span><img class="resident r-elf" data-src="img/r_elf.webp" alt="" width="27" height="53"></div>
+          <div class="flat f-cave"><img data-src="img/f_cave.webp" alt="" width="150" height="160"></div>
+          <div class="flat f-world"><div class="w-tree"><img data-src="img/f_tree.webp" alt="" width="260" height="340"><img class="swing" data-src="img/r_swing.webp" alt="" width="26" height="56"><img class="resident r-fairy" data-src="img/r_fairy.webp" alt="" width="39" height="36"></div><div class="w-roots"><img data-src="img/f_roots.webp" alt="" width="200" height="110"></div></div>
           <div class="cover">
             <div class="cv-front"><img src="img/cover.webp" alt="" width="160" height="200"><span class="cv-title"><span class="cv-s">AI内製化工房の</span><span class="cv-l">地図</span></span></div>
-            <div class="cv-back"><img src="img/spread.webp" alt="" width="320" height="200"></div>
+            <div class="cv-back"><img data-src="img/spread.webp" alt="" width="320" height="200"></div>
           </div>
         </div>
       </div>
@@ -62,7 +62,7 @@
         <div class="flies"><span></span><span></span><span></span><span></span><span></span><span></span><span></span><span></span><span></span><span></span></div>
         <div class="motes"><span></span><span></span><span></span><span></span><span></span><span></span><span></span></div>
       </div>
-      <span class="fairy" aria-hidden="true"></span>
+      <span class="fairy" aria-hidden="true"><i class="fw"></i><i class="fw"></i><i class="fb"></i><i class="fd"></i><i class="fd"></i><i class="fd"></i><i class="fd"></i><i class="fd"></i></span>
       <button class="open-hit" id="openBtn" type="button" aria-label="本をひらく"></button>
       <div class="labels" id="labels"></div>
       <button class="np" id="np" type="button" hidden><span class="np-mark" aria-hidden="true">♪</span><span class="np-win"><span class="np-text" id="npText"></span></span></button>
